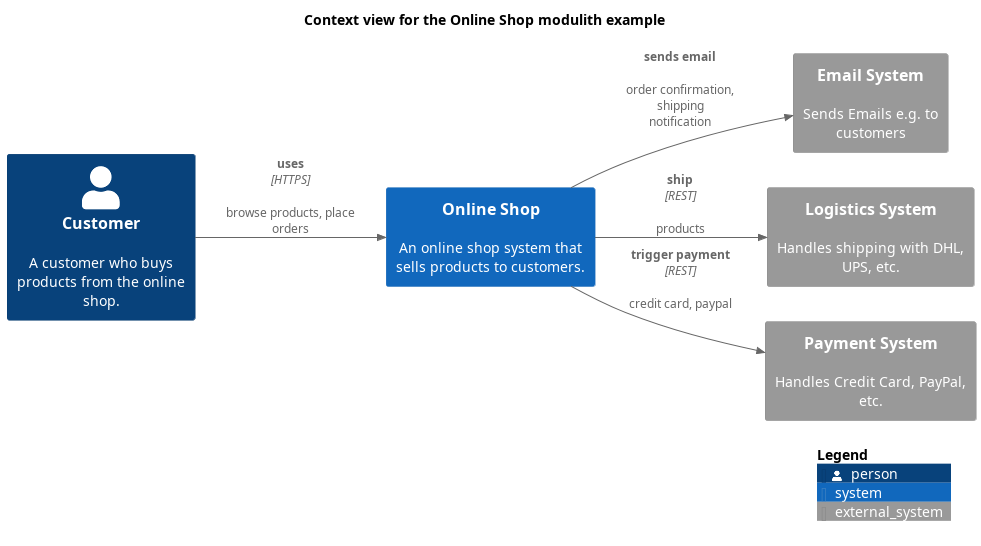
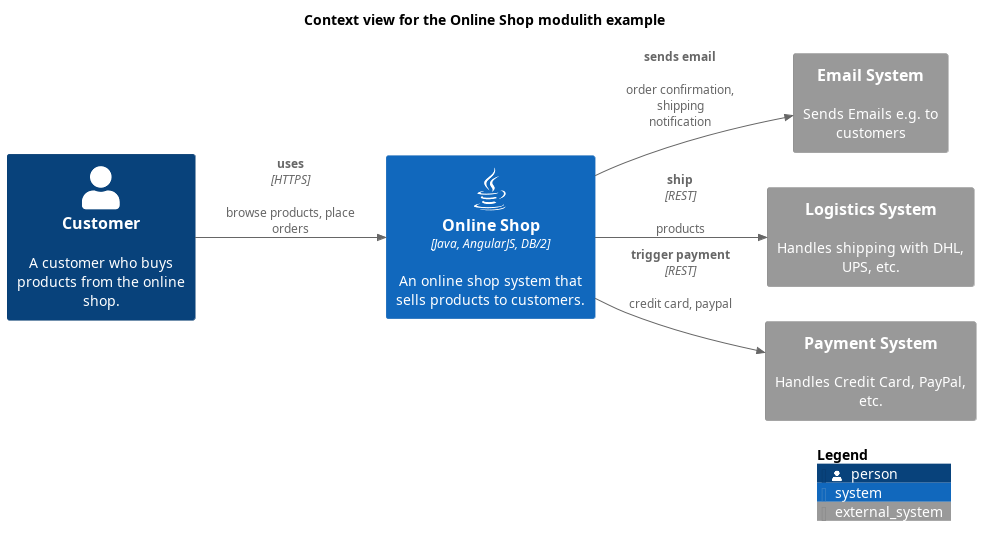
changed technologies in architecture examples

Changed region(s): [[0.367, 0.2802, 0.6116, 0.5916]]

diff --git a/CHANGELOG.md b/CHANGELOG.md
@@ -1,5 +1,16 @@
 # Change Log
 
+## 2025-05-23
+* updated overarch
+* changed technologies in architecture examples
+
+## 2025-05-17
+* updated overarch and templates
+* changed name of the modelling script
+
+## 2025-05-15
+* updated overarch and templates
+
 ## 2025-05-09
 * updated overarch and templates
 

diff --git a/docs/software-development/architecture/example/monolith/online-shop-system.md b/docs/software-development/architecture/example/monolith/online-shop-system.md
@@ -5,7 +5,7 @@ An online shop system that sells products to customers.
 
 
 ## Technology
-Java EE, Oracle, AngularJS
+Java, AngularJS, DB/2
 ## Containers
 | Container | Description |
 |---|---|

diff --git a/docs/software-development/architecture/example/modulith/online-shop-system.md b/docs/software-development/architecture/example/modulith/online-shop-system.md
@@ -3,6 +3,9 @@
 ## Description
 An online shop system that sells products to customers.
 
+
+## Technology
+Java, AngularJS, DB/2
 ## Containers
 | Container | Description |
 |---|---|
